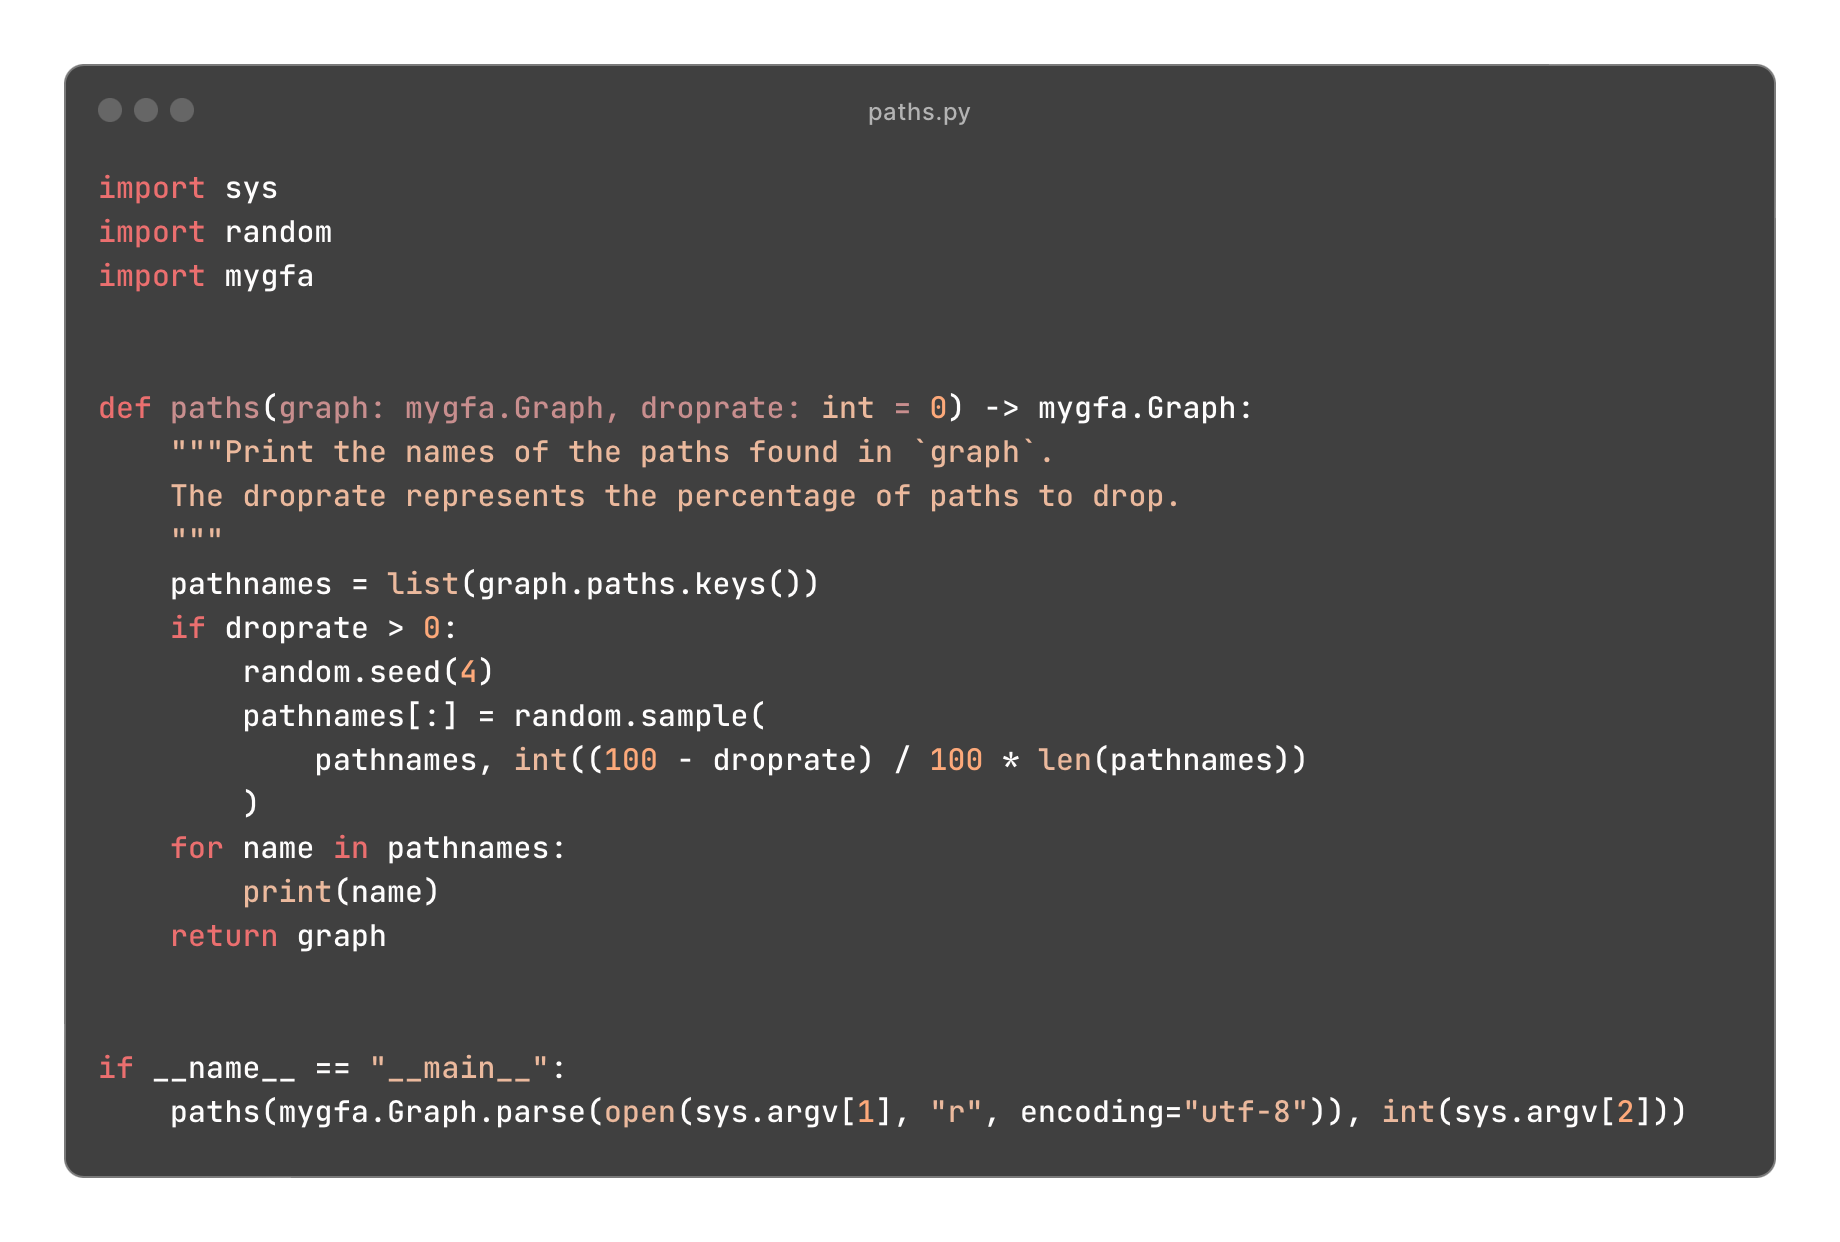
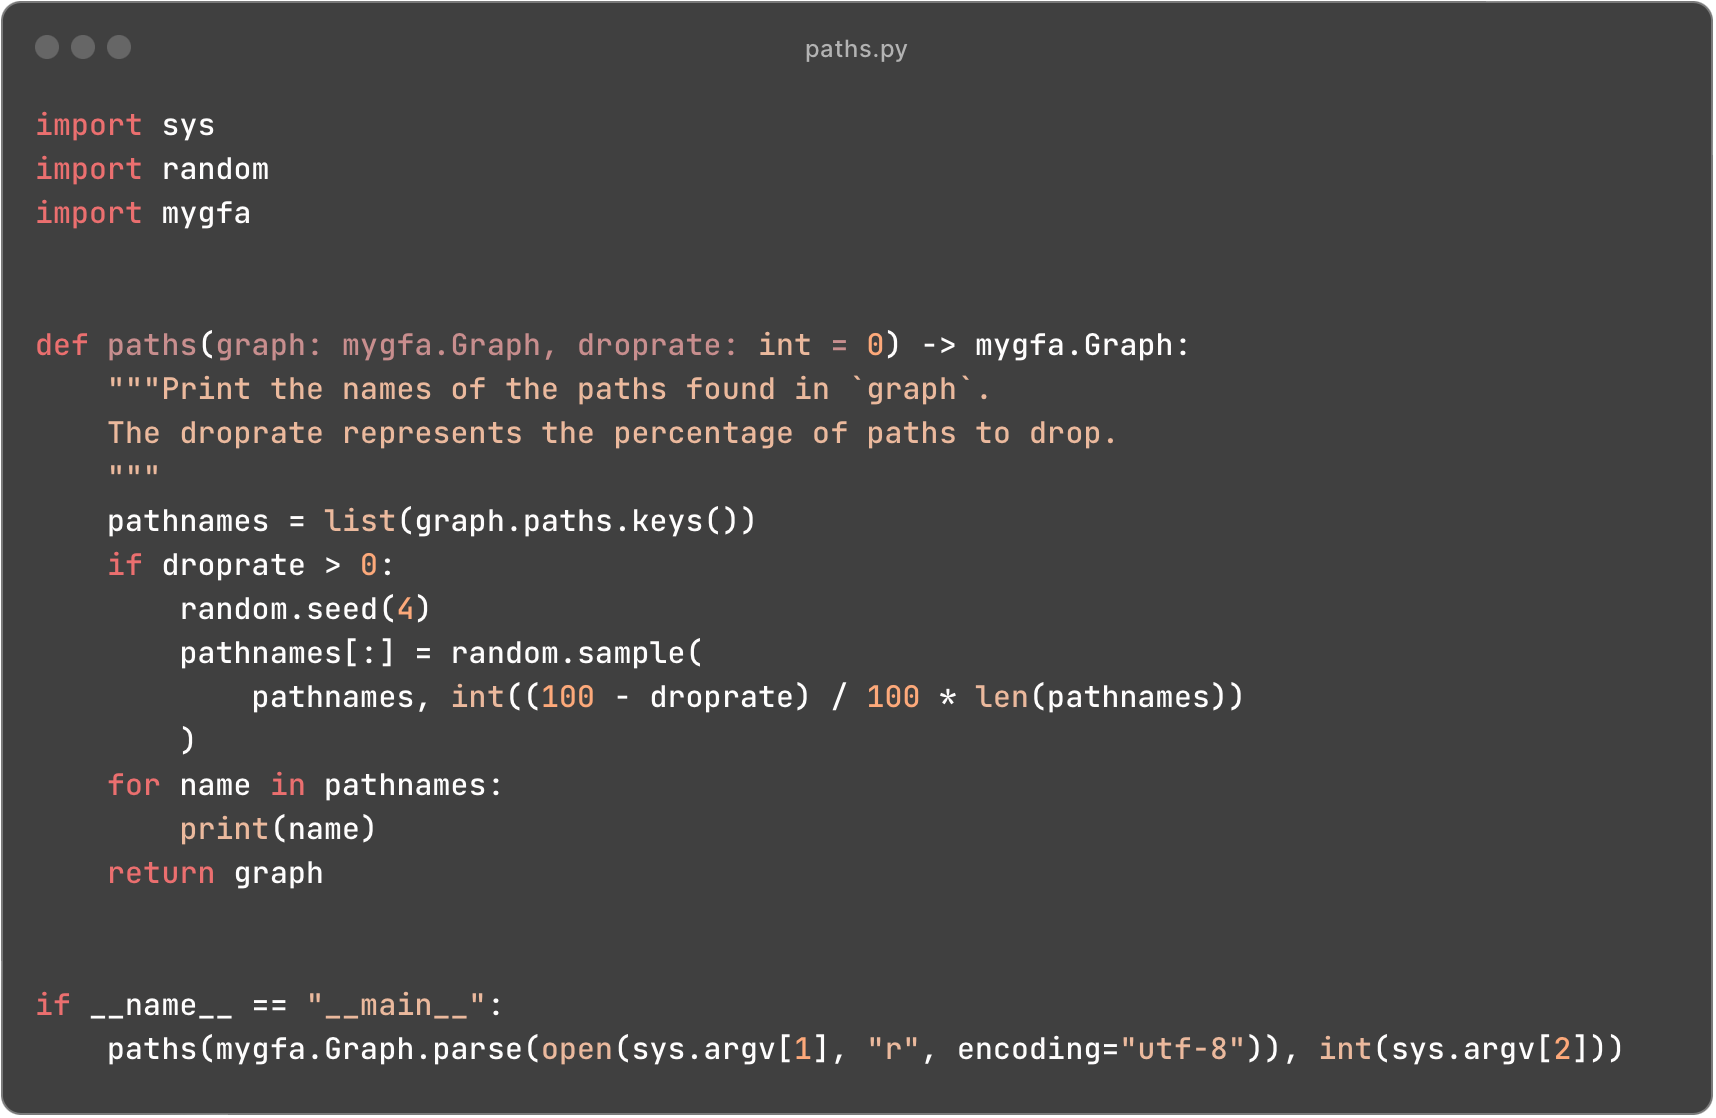
Somewhat better code display

Changed region(s): [[0.0, 0.0, 1.0, 1.0], [0.4942, 0.0912, 0.5251, 0.1216]]

diff --git a/media/main.scss b/media/main.scss
@@ -593,6 +593,15 @@ figcaption {
     margin-bottom: 1em;
 }
 
+// Side-by-side inline figures.
+.figrow {
+    display: flex;
+    figure {
+        float: none;
+        margin: 0;
+    }
+}
+
 // KaTeX fonts. By default, it's too large.
 .katex {
     font-size: 1.05em !important;

diff --git a/_drafts/mygfa.md b/_drafts/mygfa.md
@@ -89,7 +89,7 @@ While mygfa is the wrong tool for the job for practical pangenomics computations
 we hope it's useful for situations where clarity matters a lot and scale matters less:
 learning about the domain,
 exploratory design phases that come before high-performance implementations,
-and writing [reference implementations][slow-odgi] for "real" pangenomics software.
+and [reference implementations][slow-odgi] for "real" pangenomics software.
 
 [gfapy]: https://github.com/ggonnella/gfapy
 [gfagraphs]: https://github.com/Tharos-ux/gfagraphs
@@ -107,7 +107,7 @@ and writing [reference implementations][slow-odgi] for "real" pangenomics softwa
 ## [As Slow as Possible][aslsp]
 
 [Anshuman][] took this "slow and steady" approach a step farther and used mygfa to implement a slew of pangenomic analyses.
-We call it [slow-odgi][], because it's a worse version of [odgi][], an actually good pangenomic toolkit that our collaborators wrote in C++.
+We call the result [slow-odgi][], because it's a worse version of [odgi][], an actually good pangenomic toolkit that our collaborators wrote in C++.
 Our slow-odgi tool currently implements 12 of odgi's 44 commands.
 We have an elaborate [differential testing setup][test] that checks, for a bunch of real input GFA files, that odgi and slow-odgi output byte-for-byte identical results.
 
@@ -123,14 +123,17 @@ For that and many other reasons, slow-odgi is more than 10&times; slower, even f
 In exchange, it's also way shorter.
 Here's the code for the `paths` command that just extracts a list of the paths in a graph, [in odgi][odgi paths] and then [in slow-odgi][slow-odgi paths]:
 
-<figure style="max-width: 50%">
+<div class="figrow">
+<figure style="width: 55%">
 <img src="{{ site.base }}/media/flatgfa/code-slow-odgi.png" alt="A big, chunky code listing of slow-odgi's Python implementation of path extraction.">
-<caption>The entirety of <a href="https://github.com/cucapra/pollen/blob/main/slow_odgi/slow_odgi/paths.py"><code>paths.py</code> from slow-odgi</a>.</caption>
+<figcaption>The entirety of <a href="https://github.com/cucapra/pollen/blob/main/slow_odgi/slow_odgi/paths.py"><code>paths.py</code> from slow-odgi</a>.</figcaption>
 </figure>
-<figure style="max-width: 50%">
+
+<figure style="max-width: 43%">
 <img src="{{ site.base }}/media/flatgfa/code-odgi.png" alt="A ridiculously tiny grid of 9 pieces of odgi's C++ implementation of path extraction.">
-<caption>A bit less than half of <a href="https://github.com/pangenome/odgi/blob/master/src/subcommand/paths_main.cpp"><code>paths_main.cpp</code> from odgi</a>.</caption>
+<figcaption>Less than half of <a href="https://github.com/pangenome/odgi/blob/master/src/subcommand/paths_main.cpp">odgi&rsquo;s <code>paths_main.cpp</code></a>.</figcaption>
 </figure>
+</div>
 
 This is a completely unfair comparison because `odgi paths` has many more features and is actually optimized while `slow_odgi paths` does only one obvious thing.
 But a painfully obvious reference implementation is exactly what we needed to understand what a better implementation might look like.
